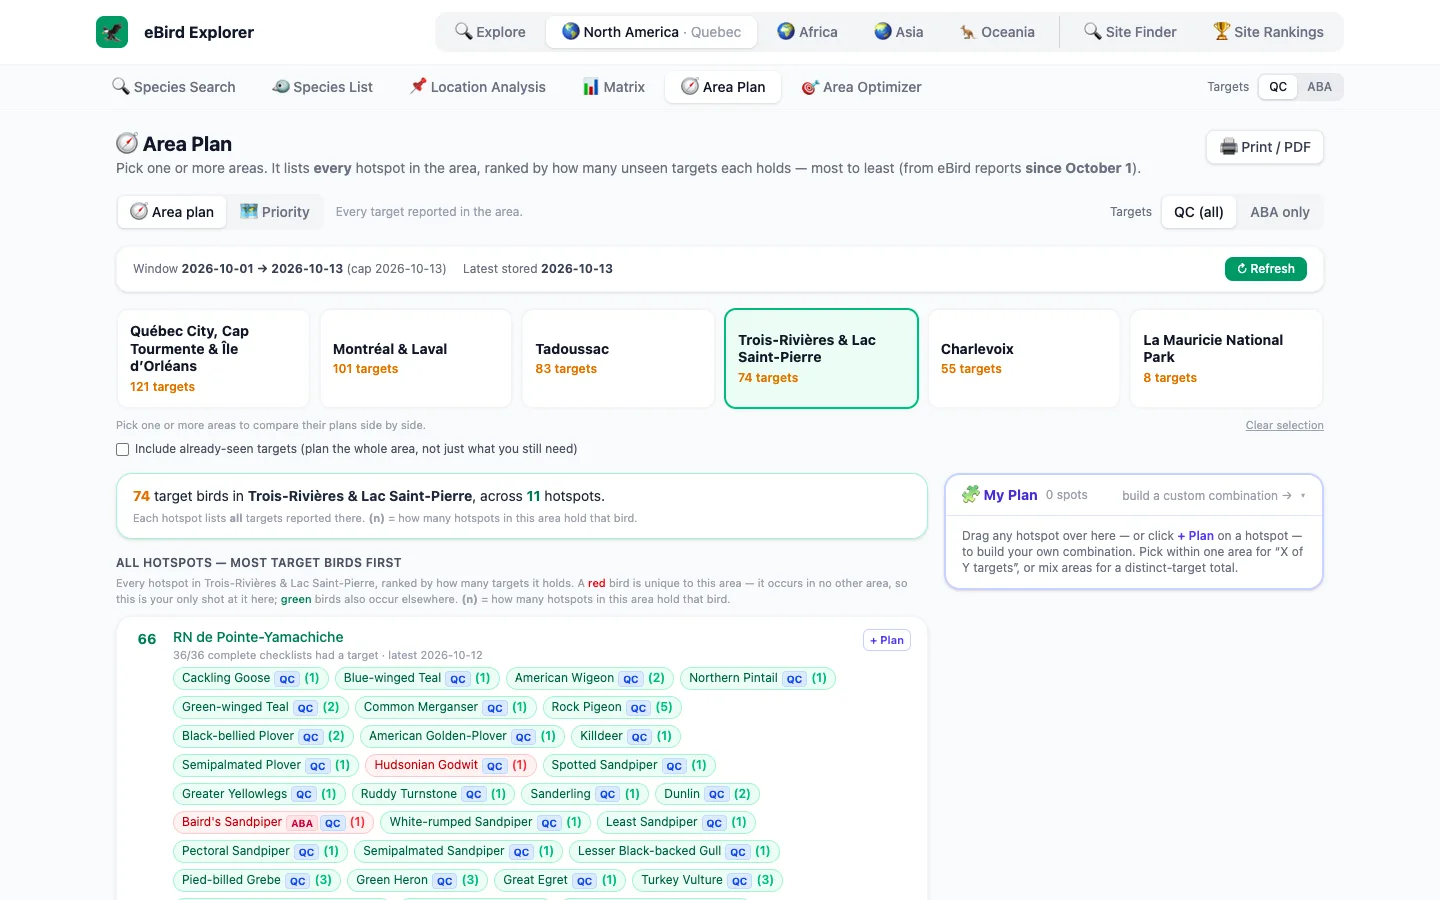
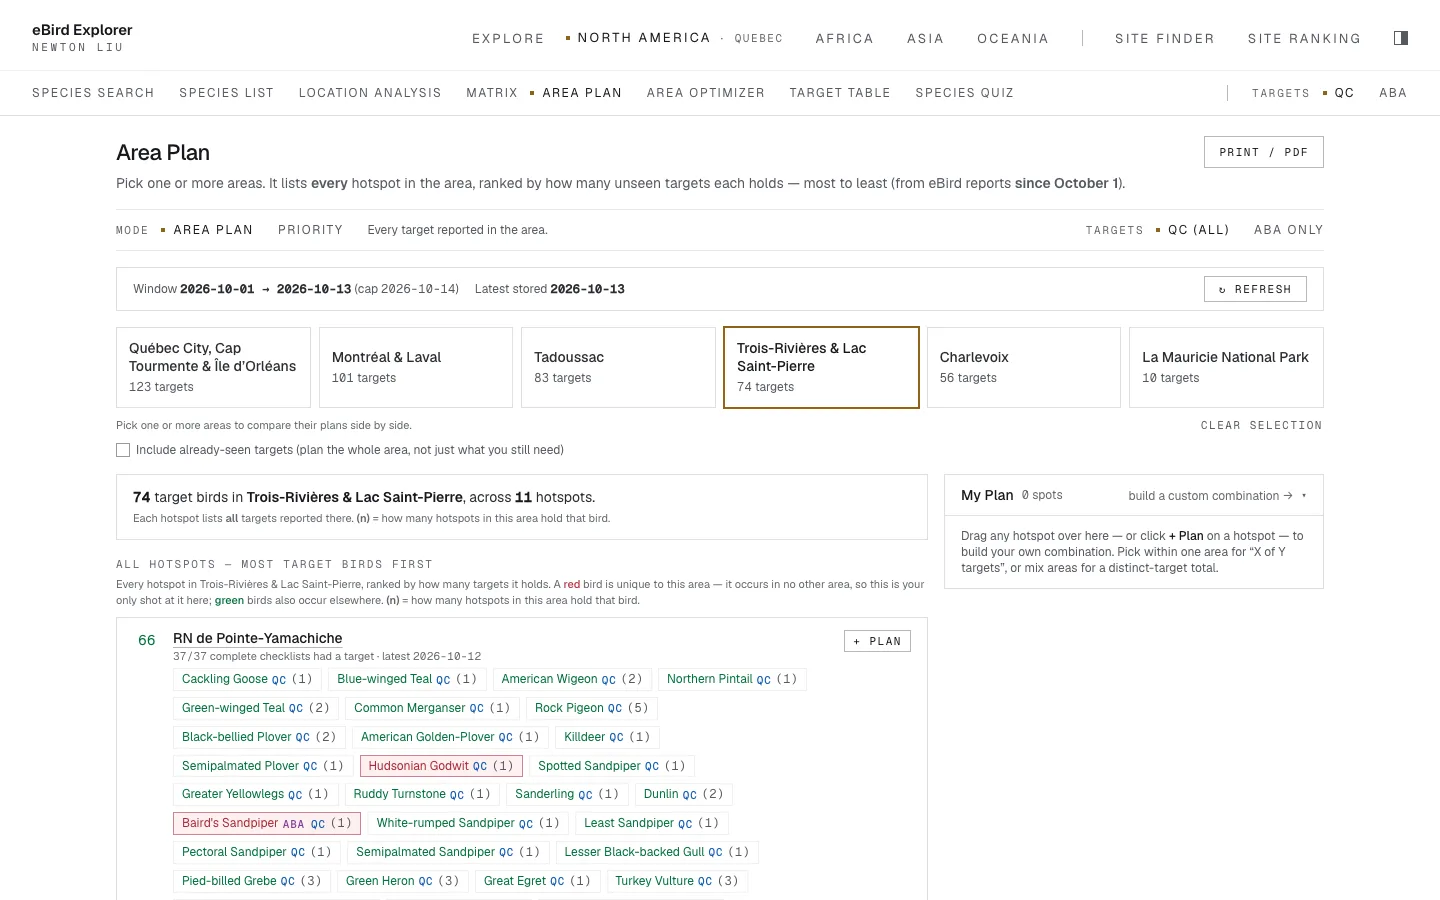
Projects: Newton's new blurbs, "under construction", a rail that follows
- Each project's kicker now ends "Under construction" (its own edit key,
  projects.<key>.status), in the accent.
- New blurbs in Newton's words for all four (plain typos fixed); Shoot
  Planner's article reads Photography Planner.
- eBird Explorer's two screenshots retaken from the current design, light
  ground (Area Plan, Trois-Rivières; Species Matrix), 2880 + 1440.
- The rail lights the project being read (projectsRail in site.js); a
  followed link stays lit until the reader scrolls on their own.
- site.css / site.js restamped in every page.

diff --git a/projects.html b/projects.html
@@ -7,7 +7,7 @@
 <meta name="description" content="Things Newton Liu has built alongside the photography, starting with eBird Explorer.">
 <meta name="theme-color" content="#121212">
 <script>try{if(localStorage.getItem("theme")==="white"){document.documentElement.dataset.theme="light";var m=document.querySelector('meta[name="theme-color"]');if(m)m.content="#ffffff"}}catch(e){}</script>
-<link rel="stylesheet" href="assets/site.css?v=2caea90f">
+<link rel="stylesheet" href="assets/site.css?v=abc05a6c">
 </head>
 
 <body data-page="prose" data-base="">
@@ -36,7 +36,7 @@
     <aside class="about-rail">
       <h1 class="about-title" data-edit="projects.title">Projects</h1>
       <p class="about-name" data-edit="projects.name">Newton Liu</p>
-      <nav class="about-jump" aria-label="Projects">
+      <nav class="about-jump projects-jump" aria-label="Projects">
         <a href="#ebird-explorer">eBird Explorer</a>
         <a href="#shoot-planner">Photography Planner</a>
         <a href="#retreat-finder">Retreat Finder</a>
@@ -46,11 +46,9 @@
 
     <div class="projects">
       <article class="project" id="ebird-explorer">
-        <p class="project-kicker" data-edit="projects.ebird.kicker">Web app · 2026</p>
+        <p class="project-kicker"><span data-edit="projects.ebird.kicker">Web app · 2026</span><span class="project-status" data-edit="projects.ebird.status">Under construction</span></p>
         <h2 class="project-title">eBird Explorer</h2>
-        <p class="project-blurb" data-edit="projects.ebird.blurb" data-edit-lines>A trip planner built on eBird’s live data. For each trip, it lists the birds I still need, where they’ve been reported lately, and which hotspots hold the most of them, so a day in the field goes where the birds are.
-
-I built it for my own trips, from Alaska and Quebec to Puerto Rico and Oaxaca.</p>
+        <p class="project-blurb" data-edit="projects.ebird.blurb" data-edit-lines>A birding trip planner built on eBird’s live data. For a given area, users input target species and the engine searches for where they’ve been reported lately, and which hotspots hold the most of them, generating an actionable plan for birders.</p>
         <p class="project-actions">
           <a class="text-link" href="https://ebird-explorer.onrender.com">Open the app &rarr;</a>
           <span class="project-note" data-edit="projects.ebird.note">Password required</span>
@@ -60,7 +58,7 @@ I built it for my own trips, from Alaska and Quebec to Puerto Rico and Oaxaca.</
           <img src="images/_projects/ebird-explorer/area-plan.webp"
                srcset="images/_projects/ebird-explorer/1440/area-plan.webp 1440w, images/_projects/ebird-explorer/area-plan.webp 2880w"
                sizes="(max-width: 1000px) 100vw, min(62vw, 67rem)"
-               alt="eBird Explorer's Area Plan for Quebec: six trip areas across the top, Trois-Rivières picked, and its hotspots ranked by how many target birds each has reported."
+               alt="eBird Explorer's Area Plan for Quebec: six trip areas across the top, Trois-Rivières picked, and its hotspots ranked by how many target birds each has reported, each bird listed under its hotspot."
                width="2880" height="1800" decoding="async">
           <figcaption data-edit="projects.ebird.shot1">Area plan: every hotspot in an area, ranked by how many target birds it holds</figcaption>
         </figure>
@@ -69,18 +67,16 @@ I built it for my own trips, from Alaska and Quebec to Puerto Rico and Oaxaca.</
           <img src="images/_projects/ebird-explorer/matrix.webp"
                srcset="images/_projects/ebird-explorer/1440/matrix.webp 1440w, images/_projects/ebird-explorer/matrix.webp 2880w"
                sizes="(max-width: 1000px) 100vw, min(62vw, 67rem)"
-               alt="eBird Explorer's Species Matrix: target birds down the side, Quebec trip areas across the top, each cell marked Reliable, Possible or No reports with its checklist rate."
+               alt="eBird Explorer's Species Matrix: target birds down the side, Quebec trip areas across the top, each cell marked Reliable, Possible, No reports or Not enough, with its checklist rate."
                width="2880" height="1800" loading="lazy" decoding="async">
           <figcaption data-edit="projects.ebird.shot2">Species matrix: each bird against each area, by its share of complete checklists</figcaption>
         </figure>
       </article>
 
       <article class="project" id="shoot-planner">
-        <p class="project-kicker" data-edit="projects.shootplanner.kicker">Web app · 2026</p>
+        <p class="project-kicker"><span data-edit="projects.shootplanner.kicker">Web app · 2026</span><span class="project-status" data-edit="projects.shootplanner.status">Under construction</span></p>
         <h2 class="project-title">Photography Planner</h2>
-        <p class="project-blurb" data-edit="projects.shootplanner.blurb" data-edit-lines>A planner for landscape photography. Pick a date and a base, and it scores my saved spots for sunrise, sunset, golden light, soft light, fog, stars and aurora from free forecast, tide and space-weather data. Then it builds the day: when to wake, where to drive, and a backup for each session, with the reasons behind every score.
-
-It started with a stormy week in Charlevoix, Quebec, in October 2026, and works wherever I travel.</p>
+        <p class="project-blurb" data-edit="projects.shootplanner.blurb" data-edit-lines>A planner for landscape photography. Pick a date and a base, and it searches for and scores photography spots for different times of day and different elements (sunrise, sunset, golden light, soft light, fog, stars and aurora) using forecast, tide and space-weather data. Then it builds the day: when to wake, where to drive, and a backup for each session, with the reasons behind every score. It started with a stormy week in Charlevoix, Quebec, in October 2026.</p>
         <p class="project-actions">
           <a class="text-link" href="shoot-planner/">Open the app &rarr;</a>
           <span class="project-note" data-edit="projects.shootplanner.note">Open to view</span>
@@ -115,11 +111,9 @@ It started with a stormy week in Charlevoix, Quebec, in October 2026, and works 
       </article>
 
       <article class="project" id="retreat-finder">
-        <p class="project-kicker" data-edit="projects.retreatfinder.kicker">Web app · 2026</p>
+        <p class="project-kicker"><span data-edit="projects.retreatfinder.kicker">Web app · 2026</span><span class="project-status" data-edit="projects.retreatfinder.status">Under construction</span></p>
         <h2 class="project-title">Retreat Finder</h2>
-        <p class="project-blurb" data-edit="projects.retreatfinder.blurb" data-edit-lines>A finder for places to stay on photography trips. Claude searches Airbnb, VRBO, Booking.com and hosts’ own sites and reads each listing. The app scores every place against my taste: a view from where I sit, good design, a real desk, quiet. It shows the evidence behind each judgement, remembers every place I’ve turned down and why, and tracks prices for exact dates.
-
-I built it for my own trips, so it opens to a sign-in.</p>
+        <p class="project-blurb" data-edit="projects.retreatfinder.blurb" data-edit-lines>A finder for places to stay on trips. Claude searches Airbnb, VRBO, Booking.com and hosts’ own sites and reads each listing. The app scores every place against a curated taste: views, designs, workspace, solitude, etc. It shows the evidence behind each judgement, remembers every rejected place and why, and tracks prices for exact dates.</p>
         <p class="project-actions">
           <a class="text-link" href="retreat-finder/">Open the app &rarr;</a>
           <span class="project-note" data-edit="projects.retreatfinder.note">Passphrase required</span>
@@ -127,9 +121,9 @@ I built it for my own trips, so it opens to a sign-in.</p>
       </article>
 
       <article class="project" id="site-ranking">
-        <p class="project-kicker" data-edit="projects.siteranking.kicker">Web app · 2026</p>
+        <p class="project-kicker"><span data-edit="projects.siteranking.kicker">Web app · 2026</span><span class="project-status" data-edit="projects.siteranking.status">Under construction</span></p>
         <h2 class="project-title">Site Ranking</h2>
-        <p class="project-blurb" data-edit="projects.siteranking.blurb" data-edit-lines>A personal ranking of the eBird hotspots I’ve birded. Each visit gets a score for the quality of the birds, the number of species and the experience; head-to-head comparisons then put every site in order within its tier, so the list says which places were really the best.
+        <p class="project-blurb" data-edit="projects.siteranking.blurb" data-edit-lines>Inspired by the viral food ranking app Beli, this is a personal ranking system of the eBird hotspots a user has birded. Each visit gets a score for the quality of the birds, the number of species and the experience; then, pairwise comparisons put every site in order within its tier, so the list says which places were really the best.
 
 It runs alongside eBird Explorer and shares its sign-in.</p>
         <p class="project-actions">
@@ -152,7 +146,7 @@ It runs alongside eBird Explorer and shares its sign-in.</p>
   </div>
 </footer>
 
-<script src="assets/site.js?v=04901f06"></script>
+<script src="assets/site.js?v=f7acac9a"></script>
 <script src="assets/edit.js?v=c63f7eb5"></script>
 </body>
 </html>

diff --git a/assets/site.js b/assets/site.js
@@ -372,6 +372,57 @@
     more();
   })();
 
+  // Projects: the rail lights the project being read (aria-current, styled
+  // in site.css). That is the last one whose top has passed 40% of the way
+  // down the window, the first until then, and the last once the page can
+  // scroll no further, since a short last project never reaches the line.
+  // A rail link just followed (or the page's own #hash) stays lit while the
+  // smooth scroll runs and after it lands, even at the foot of the page,
+  // until the reader scrolls on their own.
+  (function projectsRail() {
+    var nav = document.querySelector(".projects-jump");
+    var projects = document.querySelectorAll(".projects > .project[id]");
+    if (!nav || !projects.length) return;
+    var links = {};
+    Array.prototype.forEach.call(nav.querySelectorAll('a[href^="#"]'), function (a) {
+      links[a.getAttribute("href").slice(1)] = a;
+    });
+    var current = null, pinned = null, queued = false;
+    function light(id) {
+      if (id === current) return;
+      if (current && links[current]) links[current].removeAttribute("aria-current");
+      current = id;
+      if (links[id]) links[id].setAttribute("aria-current", "location");
+    }
+    function update() {
+      queued = false;
+      if (pinned) return light(pinned);
+      var line = window.innerHeight * 0.4, pick = projects[0];
+      for (var i = 0; i < projects.length; i++) {
+        if (projects[i].getBoundingClientRect().top <= line) pick = projects[i];
+      }
+      var doc = document.documentElement;
+      if (window.innerHeight + window.pageYOffset >= doc.scrollHeight - 2) pick = projects[projects.length - 1];
+      light(pick.id);
+    }
+    function queue() { if (!queued) { queued = true; requestAnimationFrame(update); } }
+    function unpin() { if (pinned) { pinned = null; queue(); } }
+    nav.addEventListener("click", function (e) {
+      var a = e.target.closest && e.target.closest('a[href^="#"]');
+      if (a && links[a.getAttribute("href").slice(1)]) { pinned = a.getAttribute("href").slice(1); queue(); }
+    });
+    ["wheel", "touchstart", "keydown", "mousedown"].forEach(function (type) {
+      window.addEventListener(type, function (e) {
+        if (type === "mousedown" && nav.contains(e.target)) return;   // the click above pins instead
+        unpin();
+      }, { passive: true });
+    });
+    window.addEventListener("scroll", queue, { passive: true });
+    window.addEventListener("resize", queue);
+    if (location.hash && links[location.hash.slice(1)]) pinned = location.hash.slice(1);
+    update();
+  })();
+
   /* ---------- Chinese text ---------------------------------------------- */
 
   // Any Chinese on the site, a blurb today or a title, subtitle or caption

diff --git a/assets/site.css b/assets/site.css
@@ -1284,6 +1284,28 @@ body.lb-open { overflow: hidden; }
 }
 .project-kicker { margin: 0; }
 
+/* Every project is still being built, and says so after its kicker, in the
+   accent ("progress"). The dot is drawn here so an emptied status leaves
+   no stray separator; the second `content` keeps it from being read out. */
+.project-status { color: var(--accent); }
+.project-status::before {
+  content: "·"; content: "·" / "";
+  margin: 0 .55em; color: var(--text-faint);
+}
+.project-status:empty::before { content: none; }
+
+/* The project being read is lit in the rail (site.js projectsRail): full
+   ink, and the nav's 4×4 accent square hung in the gutter to its left so
+   the label doesn't shift as it comes and goes. */
+.projects-jump a { position: relative; }
+.projects-jump a[aria-current] { color: var(--text); }
+.projects-jump a[aria-current]::before {
+  content: "";
+  position: absolute; right: 100%; top: 50%;
+  margin: -2px 8px 0 0;
+  border: 2px solid var(--accent);
+}
+
 .project-title {
   margin: var(--s3) 0 0;
   font: 500 var(--t-h2)/1.1 var(--sans);

diff --git a/index.html b/index.html
@@ -17,7 +17,7 @@
 <link rel="preconnect" href="https://fonts.gstatic.com" crossorigin>
 <link rel="stylesheet" href="https://fonts.googleapis.com/css2?family=Geist:wght@300;400;500;600&amp;family=Geist+Mono:wght@400;500&amp;display=swap">
 <link rel="preconnect" href="https://tiles.openfreemap.org" crossorigin>
-<link rel="stylesheet" href="assets/site.css?v=2caea90f">
+<link rel="stylesheet" href="assets/site.css?v=abc05a6c">
 <link rel="stylesheet" href="assets/globe.css?v=f5763c0d">
 </head>
 
@@ -124,7 +124,7 @@
   if (c && (c.saveData || /(^|-)2g$/.test(c.effectiveType || ""))) dispatchEvent(new Event("maplibre:deferred"));
   else window.NLLoadMapLibre();
 </script>
-<script src="assets/site.js?v=04901f06"></script>
+<script src="assets/site.js?v=f7acac9a"></script>
 <script src="assets/edit.js?v=c63f7eb5"></script>
 <script src="assets/globe.js?v=f9753eb4"></script>
 </body>

diff --git a/collections/yellowstone/index.html b/collections/yellowstone/index.html
@@ -7,7 +7,7 @@
 <meta name="description" content="Yellowstone & North Dakota — photographs by Newton Liu.">
 <meta name="theme-color" content="#121212">
 <script>try{if(localStorage.getItem("theme")==="white"){document.documentElement.dataset.theme="light";var m=document.querySelector('meta[name="theme-color"]');if(m)m.content="#ffffff"}}catch(e){}</script>
-<link rel="stylesheet" href="../../assets/site.css?v=2caea90f">
+<link rel="stylesheet" href="../../assets/site.css?v=abc05a6c">
 </head>
 
 <!-- Generated by tools/build.py. The heading text is filled in from
@@ -76,7 +76,7 @@
   </figure>
 </div>
 
-<script src="../../assets/site.js?v=04901f06"></script>
+<script src="../../assets/site.js?v=f7acac9a"></script>
 <script src="../../assets/edit.js?v=c63f7eb5"></script>
 </body>
 </html>

diff --git a/collections/california-film/index.html b/collections/california-film/index.html
@@ -7,7 +7,7 @@
 <meta name="description" content="California in Film — photographs by Newton Liu.">
 <meta name="theme-color" content="#121212">
 <script>try{if(localStorage.getItem("theme")==="white"){document.documentElement.dataset.theme="light";var m=document.querySelector('meta[name="theme-color"]');if(m)m.content="#ffffff"}}catch(e){}</script>
-<link rel="stylesheet" href="../../assets/site.css?v=2caea90f">
+<link rel="stylesheet" href="../../assets/site.css?v=abc05a6c">
 </head>
 
 <!-- Generated by tools/build.py. The heading text is filled in from
@@ -76,7 +76,7 @@
   </figure>
 </div>
 
-<script src="../../assets/site.js?v=04901f06"></script>
+<script src="../../assets/site.js?v=f7acac9a"></script>
 <script src="../../assets/edit.js?v=c63f7eb5"></script>
 </body>
 </html>

diff --git a/collections/alberta-bc-yukon/index.html b/collections/alberta-bc-yukon/index.html
@@ -7,7 +7,7 @@
 <meta name="description" content="The Canadian West — photographs by Newton Liu.">
 <meta name="theme-color" content="#121212">
 <script>try{if(localStorage.getItem("theme")==="white"){document.documentElement.dataset.theme="light";var m=document.querySelector('meta[name="theme-color"]');if(m)m.content="#ffffff"}}catch(e){}</script>
-<link rel="stylesheet" href="../../assets/site.css?v=2caea90f">
+<link rel="stylesheet" href="../../assets/site.css?v=abc05a6c">
 </head>
 
 <!-- Generated by tools/build.py. The heading text is filled in from
@@ -76,7 +76,7 @@
   </figure>
 </div>
 
-<script src="../../assets/site.js?v=04901f06"></script>
+<script src="../../assets/site.js?v=f7acac9a"></script>
 <script src="../../assets/edit.js?v=c63f7eb5"></script>
 </body>
 </html>

diff --git a/collections/desert-west/index.html b/collections/desert-west/index.html
@@ -7,7 +7,7 @@
 <meta name="description" content="The Desert West — photographs by Newton Liu.">
 <meta name="theme-color" content="#121212">
 <script>try{if(localStorage.getItem("theme")==="white"){document.documentElement.dataset.theme="light";var m=document.querySelector('meta[name="theme-color"]');if(m)m.content="#ffffff"}}catch(e){}</script>
-<link rel="stylesheet" href="../../assets/site.css?v=2caea90f">
+<link rel="stylesheet" href="../../assets/site.css?v=abc05a6c">
 </head>
 
 <!-- Generated by tools/build.py. The heading text is filled in from
@@ -76,7 +76,7 @@
   </figure>
 </div>
 
-<script src="../../assets/site.js?v=04901f06"></script>
+<script src="../../assets/site.js?v=f7acac9a"></script>
 <script src="../../assets/edit.js?v=c63f7eb5"></script>
 </body>
 </html>

diff --git a/collections/colorado-nebraska/index.html b/collections/colorado-nebraska/index.html
@@ -7,7 +7,7 @@
 <meta name="description" content="Grouse Country — photographs by Newton Liu.">
 <meta name="theme-color" content="#121212">
 <script>try{if(localStorage.getItem("theme")==="white"){document.documentElement.dataset.theme="light";var m=document.querySelector('meta[name="theme-color"]');if(m)m.content="#ffffff"}}catch(e){}</script>
-<link rel="stylesheet" href="../../assets/site.css?v=2caea90f">
+<link rel="stylesheet" href="../../assets/site.css?v=abc05a6c">
 </head>
 
 <!-- Generated by tools/build.py. The heading text is filled in from
@@ -76,7 +76,7 @@
   </figure>
 </div>
 
-<script src="../../assets/site.js?v=04901f06"></script>
+<script src="../../assets/site.js?v=f7acac9a"></script>
 <script src="../../assets/edit.js?v=c63f7eb5"></script>
 </body>
 </html>

diff --git a/collections/snowy-west/index.html b/collections/snowy-west/index.html
@@ -7,7 +7,7 @@
 <meta name="description" content="The Snowy West — photographs by Newton Liu.">
 <meta name="theme-color" content="#121212">
 <script>try{if(localStorage.getItem("theme")==="white"){document.documentElement.dataset.theme="light";var m=document.querySelector('meta[name="theme-color"]');if(m)m.content="#ffffff"}}catch(e){}</script>
-<link rel="stylesheet" href="../../assets/site.css?v=2caea90f">
+<link rel="stylesheet" href="../../assets/site.css?v=abc05a6c">
 </head>
 
 <!-- Generated by tools/build.py. The heading text is filled in from
@@ -76,7 +76,7 @@
   </figure>
 </div>
 
-<script src="../../assets/site.js?v=04901f06"></script>
+<script src="../../assets/site.js?v=f7acac9a"></script>
 <script src="../../assets/edit.js?v=c63f7eb5"></script>
 </body>
 </html>

diff --git a/collections/new-england/index.html b/collections/new-england/index.html
@@ -7,7 +7,7 @@
 <meta name="description" content="New England — photographs by Newton Liu.">
 <meta name="theme-color" content="#121212">
 <script>try{if(localStorage.getItem("theme")==="white"){document.documentElement.dataset.theme="light";var m=document.querySelector('meta[name="theme-color"]');if(m)m.content="#ffffff"}}catch(e){}</script>
-<link rel="stylesheet" href="../../assets/site.css?v=2caea90f">
+<link rel="stylesheet" href="../../assets/site.css?v=abc05a6c">
 </head>
 
 <!-- Generated by tools/build.py. The heading text is filled in from
@@ -76,7 +76,7 @@
   </figure>
 </div>
 
-<script src="../../assets/site.js?v=04901f06"></script>
+<script src="../../assets/site.js?v=f7acac9a"></script>
 <script src="../../assets/edit.js?v=c63f7eb5"></script>
 </body>
 </html>

diff --git a/collections/california/index.html b/collections/california/index.html
@@ -7,7 +7,7 @@
 <meta name="description" content="California — photographs by Newton Liu.">
 <meta name="theme-color" content="#121212">
 <script>try{if(localStorage.getItem("theme")==="white"){document.documentElement.dataset.theme="light";var m=document.querySelector('meta[name="theme-color"]');if(m)m.content="#ffffff"}}catch(e){}</script>
-<link rel="stylesheet" href="../../assets/site.css?v=2caea90f">
+<link rel="stylesheet" href="../../assets/site.css?v=abc05a6c">
 </head>
 
 <!-- Generated by tools/build.py. The heading text is filled in from
@@ -76,7 +76,7 @@
   </figure>
 </div>
 
-<script src="../../assets/site.js?v=04901f06"></script>
+<script src="../../assets/site.js?v=f7acac9a"></script>
 <script src="../../assets/edit.js?v=c63f7eb5"></script>
 </body>
 </html>
